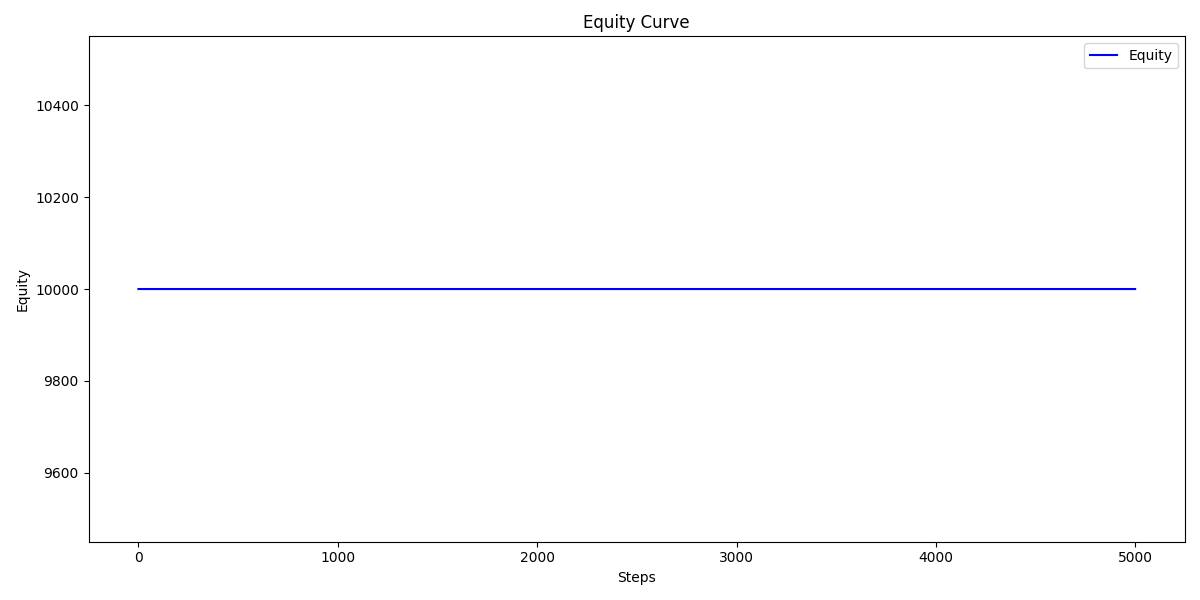
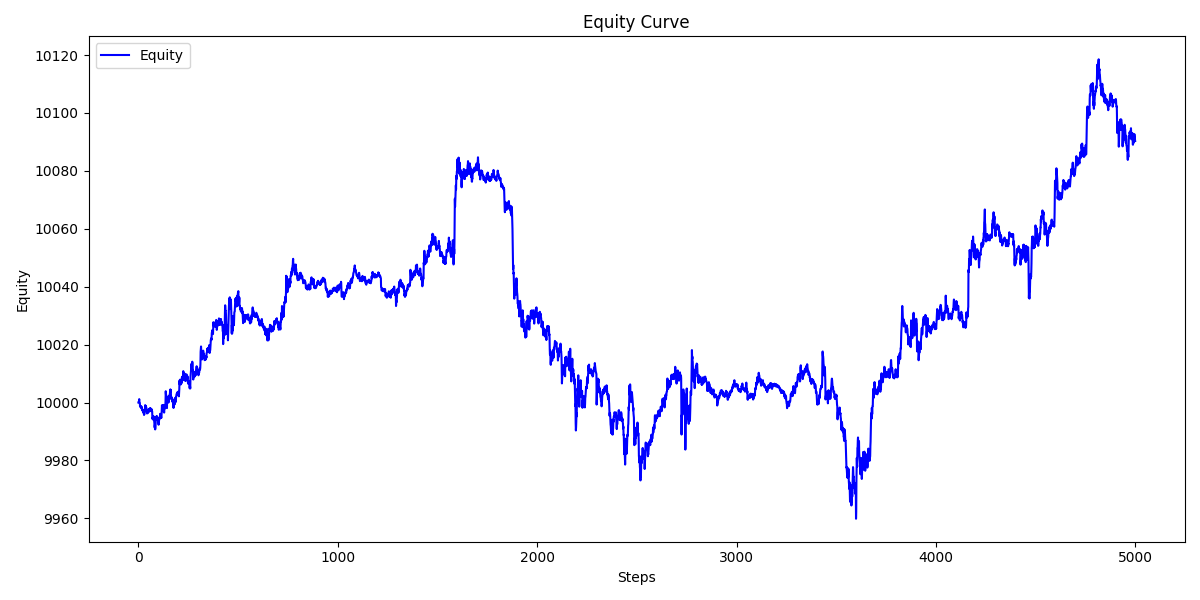
functioning qlearner. issue was in trading env config where position was entire btc

diff --git a/src/env/portfolio.py b/src/env/portfolio.py
@@ -58,7 +58,6 @@ class Portfolio:
 
     def apply_action(self, step: int, action: int, price: float) -> None:
         """
-        action: 0=hold, 1=buy(+size), 2=sell(-size)
         Mutates cash/position with commission & slippage; records trade.
         """
         if action == 0:
@@ -66,12 +65,22 @@ class Portfolio:
 
         px = self._exec_price(price, action)
         size = self.cfg.trade_size
+        print(f"[Diag] apply_action called | step={step} action={action} px={price} cash={self.cash} pos={self.position}")
+
 
         if action == 1:  # BUY
             cost = px * size
             fee = cost * self.cfg.commission_pct
             new_pos = self.position + size
-            if self._within_bounds(new_pos) and self.cash >= cost + fee:
+            within = self._within_bounds(new_pos)
+            cash_ok = self.cash >= cost + fee
+
+            print(
+                f"[Diag] BUY precheck | new_pos={new_pos} cost={cost:.2f} fee={fee:.2f} "
+                f"within={within} cash_ok={cash_ok}"
+            )
+
+            if within and cash_ok:
                 self.position = new_pos
                 self.cash -= (cost + fee)
                 self.trades.append((step, action, px, size))

diff --git a/src/agents/q_learning.py b/src/agents/q_learning.py
@@ -15,8 +15,8 @@ class QLearningAgent:
     def __init__(self,
                  actions=(-1, 0, 1),
                  alpha=0.1,       # learning rate
-                 gamma=0.95,      # discount factor
-                 epsilon=0.1):    # exploration probability
+                 gamma=0.995,      # discount factor
+                 epsilon=0.8):    # exploration probability
         self.actions = list(actions)
         self.alpha = alpha
         self.gamma = gamma

diff --git a/src/env/trading_env.py b/src/env/trading_env.py
@@ -89,6 +89,7 @@ class TradingEnv(gym.Env):
         # reward
         reward = self.portfolio.reward(prev_equity, new_equity)
 
+
         # termination / truncation
         terminated = self.current_step >= (len(self.df) - 1)
         truncated = False
